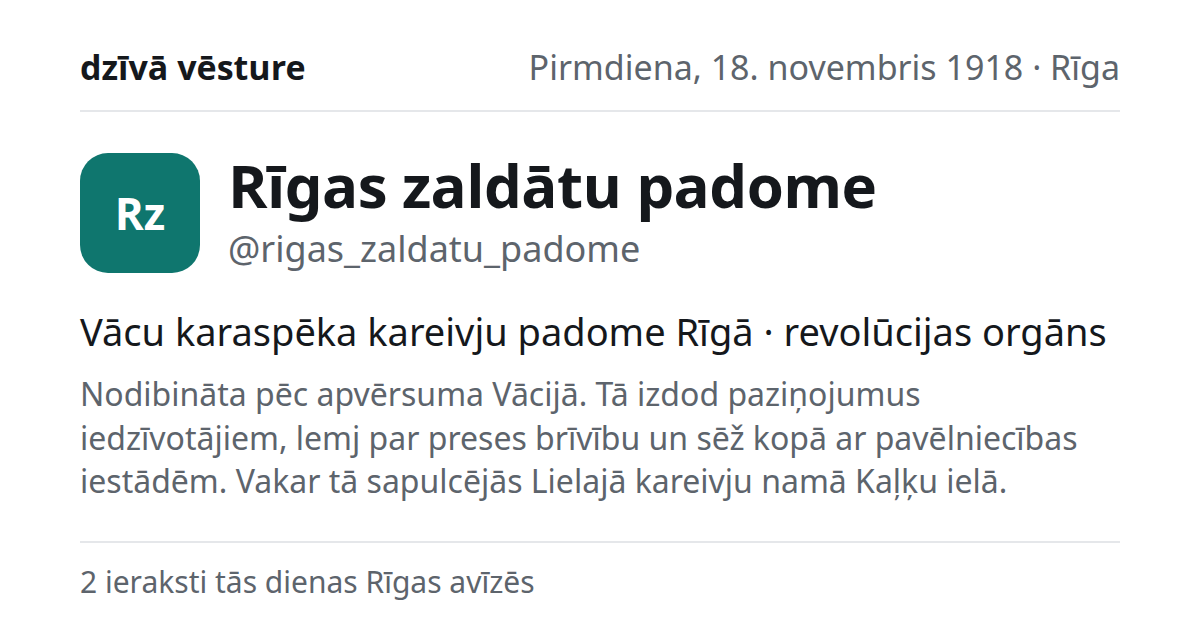
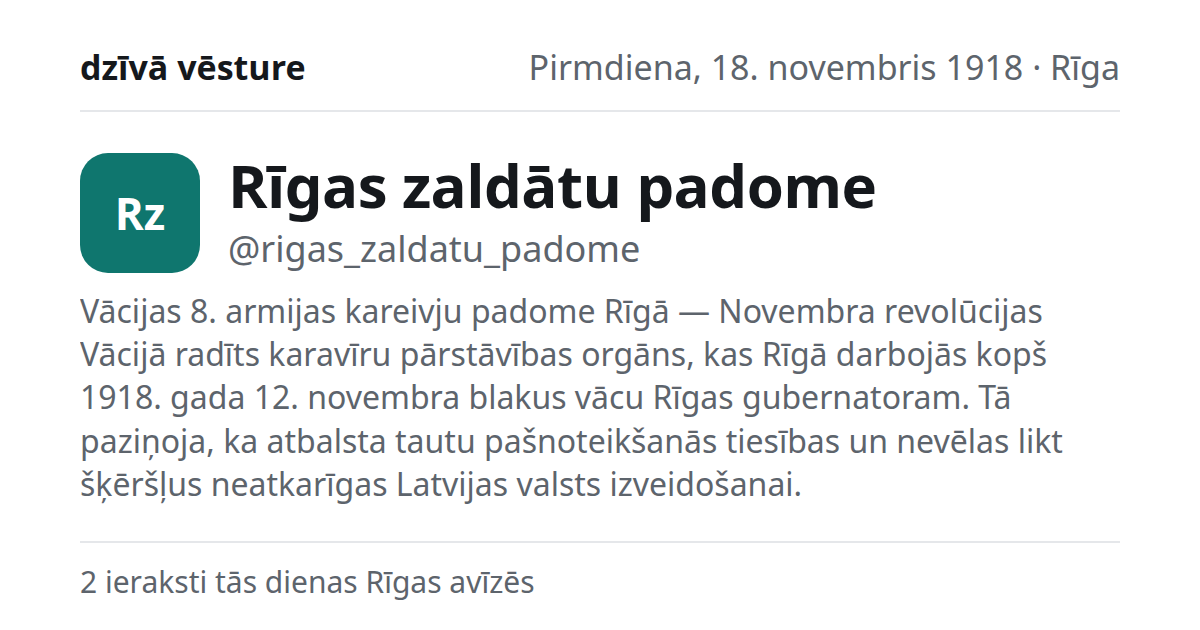
profiles: wire the 30 researched identities; correct Wilhelm II and Seraphim

Changed region(s): [[0.0617, 0.4524, 0.925, 0.8143]]

diff --git a/tests/run.ts b/tests/run.ts
@@ -2,7 +2,7 @@
 import { readFileSync } from 'node:fs';
 import {
   refusalReason, isClock, escapeHtml, bodyHtml, trends, invariantLine, initials, plural,
-  avatarHue, HUE_COUNT, reportedBy, viaText, profilePath, mentionsOf, EMPTY_COPY, descriptionLines, type Post, type Account,
+  avatarHue, HUE_COUNT, reportedBy, viaText, profilePath, mentionsOf, EMPTY_COPY, descriptionLines, readIdentities, lead, type Post, type Account,
 } from '../src/lib/feed.ts';
 
 let failed = 0;
@@ -147,17 +147,51 @@ check('profilePath from a profile', profilePath('@k_ulmanis', '../') === '../@k_
 const named = mentionsOf('@POTUS', [post({ seq: 9, mentions: { x: '@POTUS' } }), post({ seq: 2 }), post({ seq: 3, mentions: { y: '@POTUS', z: '@lidums' } })]);
 check('mentionsOf: only the posts that name the handle, in seq order', named.map((p) => p.seq).join() === '3,9');
 
-// --- descriptionLines: two regimes, never a padded description ----------------
-// | identities file | entry                     | expected          |
-// | absent          | (ignored)                 | [what, bio]       |
-// | present         | { identity: 'Laikraksts' }| ['Laikraksts']    |
-// | present         | { identity: null }        | []                |
-// | present         | undefined (not in file)   | []                |
+// --- readIdentities: the file's shape, read strictly --------------------------
+// | input                                             | expected                      |
+// | { accounts: [ {handle:'@a', identity:'X'}, {handle:'@b', identity:null} ] } | Map of 2 |
+// | { '@a': {identity:'X'} }  (a map, the old guess)  | throws "an array, not a map"  |
+// | accounts: [ {handle:'@a', identity:'X'} ], handles ['@a','@b'] | throws "no entry for @b" |
+// | accounts: [ …, {handle:'@zz', identity:'X'} ]     | throws "not an account"        |
+// | accounts: [ {handle:'@a'}, {handle:'@a'} ]        | throws "appears twice"         |
+// | identity: 5                                       | throws "string or null"       |
+// | identity: {}  (hostile: object where text belongs)| throws "string or null"       |
+const throws = (fn: () => unknown, msg: string) => { try { fn(); return false; } catch (e) { return String(e).includes(msg); } };
+const good = readIdentities({ accounts: [{ handle: '@a', identity: 'X' }, { handle: '@b', identity: null }] }, ['@a', '@b']);
+check('readIdentities: the array shape reads to a map of every handle', good.size === 2 && good.get('@a')!.identity === 'X' && good.get('@b')!.identity === null);
+check('readIdentities: a handle-keyed map fails loudly', throws(() => readIdentities({ '@a': { identity: 'X' } }, ['@a']), 'an array, not a map'));
+check('readIdentities: a handle missing from the file fails loudly', throws(() => readIdentities({ accounts: [{ handle: '@a', identity: 'X' }] }, ['@a', '@b']), 'no entry for @b'));
+check('readIdentities: a handle unknown to the data fails loudly', throws(() => readIdentities({ accounts: [{ handle: '@a', identity: 'X' }, { handle: '@zz', identity: 'X' }] }, ['@a']), 'not an account'));
+check('readIdentities: a duplicate handle fails loudly', throws(() => readIdentities({ accounts: [{ handle: '@a', identity: 'X' }, { handle: '@a', identity: 'Y' }] }, ['@a']), 'appears twice'));
+check('readIdentities: a numeric identity fails loudly', throws(() => readIdentities({ accounts: [{ handle: '@a', identity: 5 }] }, ['@a']), 'string or null'));
+check('readIdentities: an object identity fails loudly', throws(() => readIdentities({ accounts: [{ handle: '@a', identity: {} }] }, ['@a']), 'string or null'));
+
+// --- descriptionLines: the identity alone; null is two different things ------
+// | handle           | identity      | expected       |
+// | @x               | 'Laikraksts'  | ['Laikraksts'] |
+// | @f_brodermanis   | null          | []             |
+// | @zemes_sargi     | null          | [what, bio]    |
+// | @x (any other)   | null          | []             |
 const acc: Account = { name: 'X', kind: 'org', what: 'W', bio: 'B' };
-check('descriptionLines: before the file, what and bio', JSON.stringify(descriptionLines(acc, { identity: 'ignored' }, false)) === '["W","B"]');
-check('descriptionLines: with the file, the identity alone', JSON.stringify(descriptionLines(acc, { identity: 'Laikraksts' }, true)) === '["Laikraksts"]');
-check('descriptionLines: null identity → nothing', descriptionLines(acc, { identity: null }, true).length === 0);
-check('descriptionLines: not in the file → nothing', descriptionLines(acc, undefined, true).length === 0);
+check('descriptionLines: the identity alone, never what/bio beside it', JSON.stringify(descriptionLines(acc, { handle: '@x', identity: 'Laikraksts' })) === '["Laikraksts"]');
+check('descriptionLines: @f_brodermanis null → no description at all', descriptionLines(acc, { handle: '@f_brodermanis', identity: null }).length === 0);
+check('descriptionLines: @zemes_sargi null → the paper-sourced what and bio stand', JSON.stringify(descriptionLines(acc, { handle: '@zemes_sargi', identity: null })) === '["W","B"]');
+check('descriptionLines: any other null → nothing', descriptionLines(acc, { handle: '@x', identity: null }).length === 0);
+
+// --- lead: the first sentence for a preview, no full stop ---------------------
+// | input                                                   | expected                               |
+// | 'Agronoms un politiķis (dz. 1877. gada 4. septembrī). 1897. gadā beidza.' | 'Agronoms un politiķis (dz. 1877. gada 4. septembrī)' |
+// | 'Laikraksts, Nr. 59 iznāca. Vēl kas.'                   | 'Laikraksts, Nr. 59 iznāca'            |
+// | 'Rīgas pašaizsardzības vienība · dibināta 16. novembrī' | unchanged (no sentence end)            |
+// | 'Pirmais. „Otrais“.'                                    | 'Pirmais'                              |
+// | 'Rīgā, 1861—1922. Bretkopfa izdevumos.'                 | 'Rīgā, 1861—1922'                      |
+// | 'Ķeizars no 1888. gada (dz. 1859). Tronī kāpa.'         | 'Ķeizars no 1888. gada (dz. 1859)'     |
+check('lead: a birth date inside the sentence does not split it', lead('Agronoms un politiķis (dz. 1877. gada 4. septembrī). 1897. gadā beidza.') === 'Agronoms un politiķis (dz. 1877. gada 4. septembrī)');
+check('lead: "Nr. 59" does not split', lead('Laikraksts, Nr. 59 iznāca. Vēl kas.') === 'Laikraksts, Nr. 59 iznāca');
+check('lead: a line without a sentence end is unchanged', lead('Rīgas pašaizsardzības vienība · dibināta 16. novembrī') === 'Rīgas pašaizsardzības vienība · dibināta 16. novembrī');
+check('lead: an opening quote starts the next sentence', lead('Pirmais. „Otrais“.') === 'Pirmais');
+check('lead: a year range closing a sentence ends it', lead('Rīgā, 1861—1922. Bretkopfa izdevumos.') === 'Rīgā, 1861—1922');
+check('lead: "1888. gada" inside a sentence does not split', lead('Ķeizars no 1888. gada (dz. 1859). Tronī kāpa.') === 'Ķeizars no 1888. gada (dz. 1859)');
 
 // --- contrast: the floor is 4.5:1 (WCAG AA), computed, not eyeballed -------
 // Relative luminance per WCAG 2.x; sRGB channel linearised at the 0.03928 knee.

diff --git a/src/lib/feed.ts b/src/lib/feed.ts
@@ -220,16 +220,52 @@ export function reportedBy(via: string): string | null {
 // the "Atstāstīts: " prefix it carries in the data rather than say it twice.
 export const viaText = (via: string) => via.replace(/^Atstāstīts: /, '');
 
-// A profile's description, in two regimes. Before rereading/identities.json
-// exists, the data's own `what` and `bio` stand. Once it exists, the only
-// description is the researched identity line — what this newspaper,
-// organisation or person IS — and an account whose identity is null, or that
-// the file does not name, gets no description at all. Never a padded one.
-export type Identity = { identity: string | null; source?: string };
-export function descriptionLines(a: Account, ident: Identity | undefined, haveIdentities: boolean): string[] {
-  if (!haveIdentities) return [a.what, a.bio];
-  return ident?.identity ? [ident.identity] : [];
+// rereading/identities.json — the researched identity line per account ("what
+// this newspaper, organisation or person IS"), an ARRAY under `accounts`, not a
+// handle-keyed map. Read strictly: a wrong shape, an unknown handle, a missing
+// handle or a duplicate throws, so the build fails instead of a profile quietly
+// losing its bio because a key moved. Everything else in the file (identity_en,
+// sources, note, confidence) is for us, never for the page.
+export type Identity = { handle: string; identity: string | null };
+export function readIdentities(raw: unknown, handles: string[]): Map<string, Identity> {
+  const file = 'rereading/identities.json';
+  if (typeof raw !== 'object' || raw === null || !Array.isArray((raw as { accounts?: unknown }).accounts)) {
+    throw new Error(`${file}: expected { accounts: [ … ] } — an array, not a map`);
+  }
+  const out = new Map<string, Identity>();
+  for (const e of (raw as { accounts: unknown[] }).accounts) {
+    const entry = e as Partial<Identity> | null;
+    if (!entry || typeof entry.handle !== 'string') throw new Error(`${file}: an account entry has no string handle`);
+    if (!(typeof entry.identity === 'string' || entry.identity === null)) throw new Error(`${file}: ${entry.handle}: identity must be a string or null`);
+    if (!handles.includes(entry.handle)) throw new Error(`${file}: ${entry.handle} is not an account in the data`);
+    if (out.has(entry.handle)) throw new Error(`${file}: ${entry.handle} appears twice`);
+    out.set(entry.handle, { handle: entry.handle, identity: entry.identity });
+  }
+  for (const h of handles) if (!out.has(h)) throw new Error(`${file}: no entry for ${h}`);
+  return out;
 }
+
+// A null identity means "no encyclopedic entry", not "no information". For
+// @zemes_sargi the data's own what/bio stand because they are sourced to the
+// newspaper's own announcement (the only record of this unit) — and NOT to the
+// Baltische Landeswehr, which took the name "Latvijas zemes sargi" on 7 December:
+// a different body, so never look it up to "improve" this. For @f_brodermanis
+// nothing exists anywhere, and no description is the correct outcome.
+export const PAPER_ON_NULL = new Set(['@zemes_sargi']);
+export function descriptionLines(a: Account, ident: Identity): string[] {
+  if (ident.identity) return [ident.identity];
+  return PAPER_ON_NULL.has(ident.handle) ? [a.what, a.bio] : [];
+}
+
+// The first sentence of a description, without its full stop — what a link
+// preview and the meta description carry, where a paragraph would be truncated
+// by the platform anyway. A sentence ends at a "." that closes a word of three
+// or more letters, a four-digit year or a bracket / closing quote, and is
+// followed by a capital, a digit or an opening quote: so "dz. 1877", "Nr. 59",
+// "A. Šaņavska" and "1888. gada" never split, while "…ģimenē). 1897. gadā" and
+// "1861—1922. Bretkopfa" do. Breaks when a first sentence ends in a three-letter
+// abbreviation before a capital.
+export const lead = (text: string) => text.split(/(?<=(?:\p{L}{3,}|\d{4}|[)“”»])\.)\s+(?=[\p{Lu}\d„])/u)[0].replace(/\.$/, '');
 
 // Two initials for the avatar — a feed shows a face, we show letters.
 export const initials = (name: string) => name.split(/\s+/).slice(0, 2).map((w) => w[0]).join('');

diff --git a/tests/profiles.ts b/tests/profiles.ts
@@ -5,7 +5,7 @@
 //   node tests/profiles.ts http://host:8150 — additionally fetches every page (P1: 200)
 import { existsSync, readdirSync, readFileSync, statSync } from 'node:fs';
 import { join, dirname, resolve, relative } from 'node:path';
-import { plural, refusalReason, type Account, type Post } from '../src/lib/feed.ts';
+import { descriptionLines, plural, readIdentities, refusalReason, type Account, type Post } from '../src/lib/feed.ts';
 
 const DIST = resolve(new URL('../dist', import.meta.url).pathname);
 if (!existsSync(join(DIST, 'index.html'))) { console.error('dist/ missing — run pnpm build first'); process.exit(1); }
@@ -71,6 +71,19 @@ for (const h of postless) {
     /<section class="empty"><p>[^<]{40,}<\/p><\/section>/.test(doc) && !doc.includes('id="feed"') && !/\b0 ierakst/.test(body) && !new RegExp(`0 ${plural(0)}`).test(body));
   check(`P5: ${h} shows where it was named`, doc.includes('<section class="named">'));
 }
+
+// --- P11: the description is the researched identity, or deliberately nothing --
+// | handle          | identity  | expected on the page                                  |
+// | 28 accounts     | string    | exactly one <p class="bio"> holding it, no <p class="what"> |
+// | @zemes_sargi    | null      | the paper-sourced what + bio                          |
+// | @f_brodermanis  | null      | no description paragraph at all                       |
+const identities = readIdentities(JSON.parse(readFileSync(new URL('../rereading/identities.json', import.meta.url), 'utf8')), handles);
+const described = handles.filter((h) => identities.get(h)!.identity);
+const unescape = (s: string) => s.replace(/&#39;/g, "'").replace(/&quot;/g, '"').replace(/&lt;/g, '<').replace(/&gt;/g, '>').replace(/&amp;/g, '&');
+const paras = (h: string) => [...html(page(h)).matchAll(/<p class="(what|bio)">([^<]*)<\/p>/g)].map((m) => [m[1], unescape(m[2])]);
+check('P11: 28 profiles render their identity as the one description paragraph', described.length === 28 && described.every((h) => JSON.stringify(paras(h)) === JSON.stringify([['bio', identities.get(h)!.identity]])), described.filter((h) => JSON.stringify(paras(h)) !== JSON.stringify([['bio', identities.get(h)!.identity]])).join());
+check('P11: @zemes_sargi keeps the paper-sourced what and bio', JSON.stringify(paras('@zemes_sargi')) === JSON.stringify(descriptionLines(accounts['@zemes_sargi'], identities.get('@zemes_sargi')!).map((l, i) => [i === 0 ? 'what' : 'bio', l])));
+check('P11: @f_brodermanis renders no description at all', paras('@f_brodermanis').length === 0 && html(page('@f_brodermanis')).includes('<div class="handle">@f_brodermanis</div>'));
 
 // --- P6: back to the feed on every profile ----------------------------------
 check('P6: every profile has the back link in the header (there is no footer)', handles.every((h) => { const d = html(page(h)); return d.includes('<a class="back" href="../">') && !d.includes('<footer'); }));
